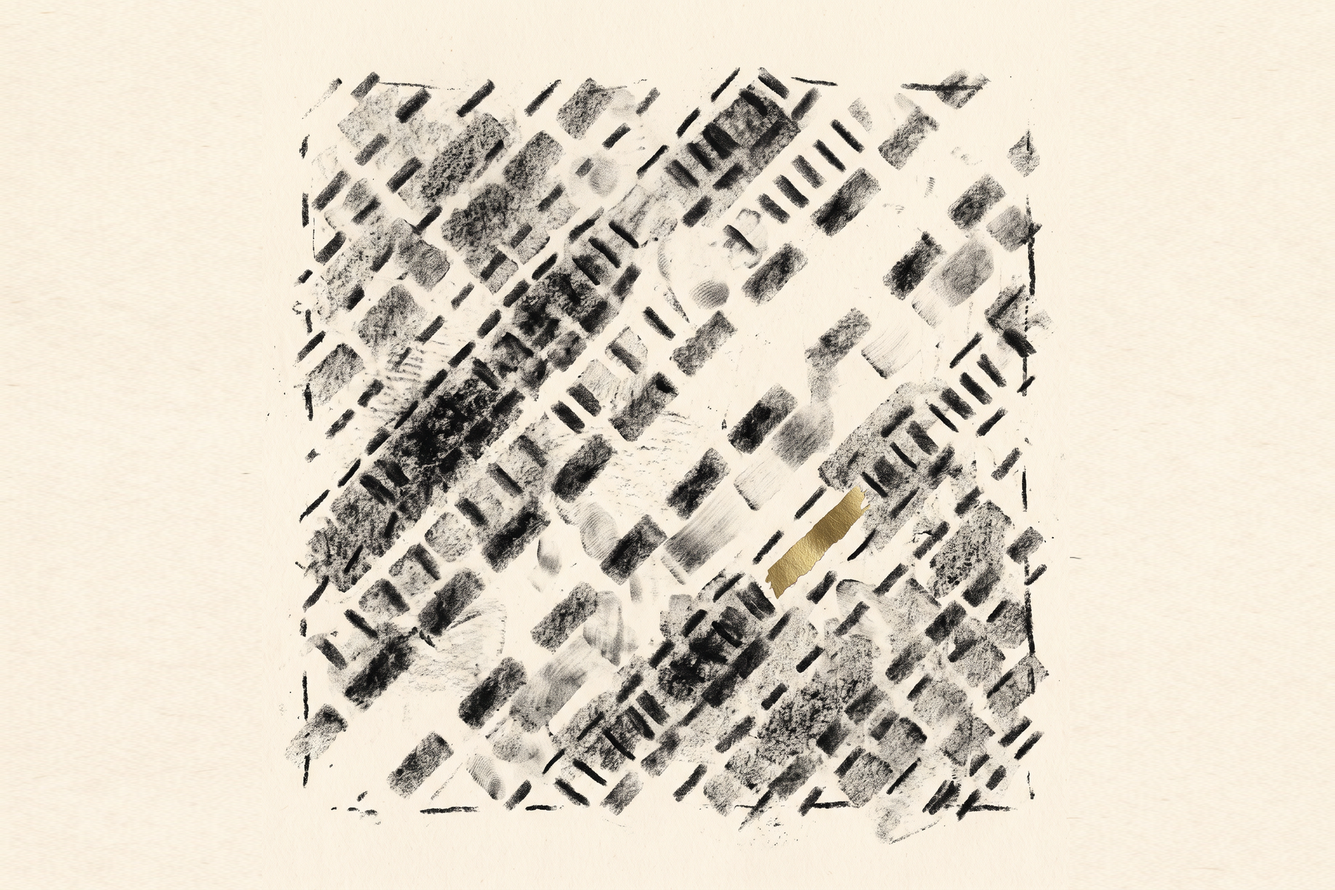
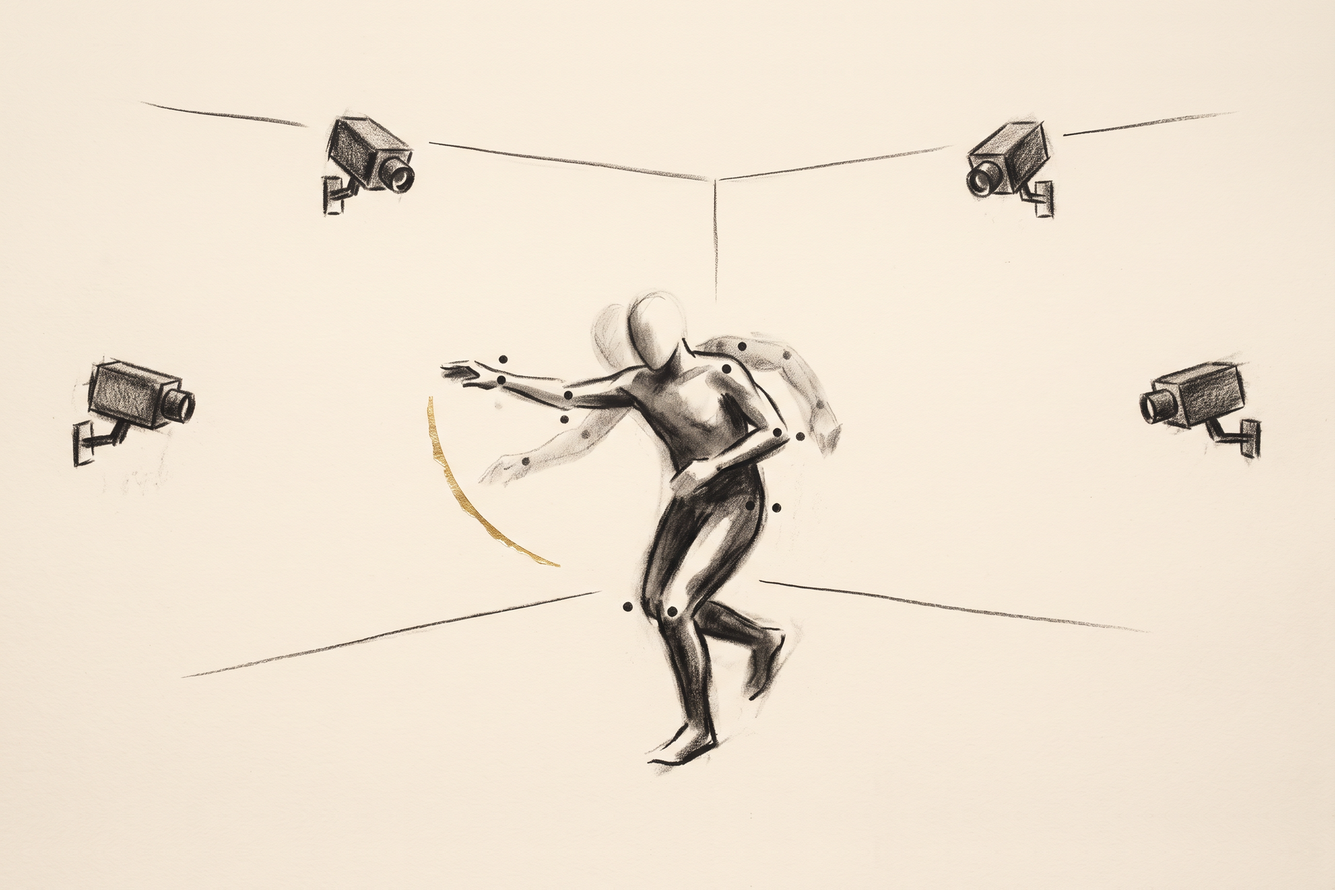
feat(people,teaching): session 6 edits, Nicole's headshot, revised theme 03 tile
People: grad students above lab manager, Nicole's photo, director CV link (placeholder),
interests line, current RAs, CV-based alumni list, collaborators. Teaching: PSY 371F rewritten
toward the ML course, Sensation & Perception added to the ASU archive. computation.png is the
2026-11-11 revised tile (provenance in Box Art-Direction/generated/).

Claude-Session: https://claude.ai/code/session_014KxBSAUFzVUFEkRcMTQfwo

diff --git a/assets/css/main.scss b/assets/css/main.scss
@@ -485,6 +485,21 @@ html[data-theme="dark"] .dc-hero__photo picture img {
   font-size: 0.95rem;
 }
 
+/* Lab Director: bold label on the research-interest line; CV link under the name. */
+.director-label {
+  font-weight: 600;
+}
+
+.person-cv {
+  margin-top: 0.35rem;
+  font-size: 0.9rem;
+  color: var(--global-theme-color);
+}
+
+.person-cv i {
+  margin-right: 0.2rem;
+}
+
 /* Research assistants: same small photo box, name only (not bolded). */
 .people-grid--ra .person-name {
   font-weight: 400;

diff --git a/_pages/people.md b/_pages/people.md
@@ -11,31 +11,28 @@ nav_order: 2
 
 ## Lab Director
 
-**{{ p.director.name }}**, {{ p.director.role }}
-
-{{ p.director.bio }}
-
----
-
-{% if p.lab_manager and p.lab_manager.size > 0 %}
-## Lab Manager
-
 <div class="people-grid people-grid--grad">
-{% for s in p.lab_manager %}
   <div class="person-card">
-    {% if s.image %}
-      <img class="person-photo" src="{{ s.image | prepend: 'assets/img/people/' | relative_url }}" alt="{{ s.name }}" />
+    {% if p.director.people_image %}
+      <img class="person-photo" src="{{ p.director.people_image | prepend: 'assets/img/people/' | relative_url }}" alt="{{ p.director.name }}" />
     {% else %}
       <div class="person-photo person-photo--placeholder" aria-hidden="true"><i class="fa-solid fa-user"></i></div>
     {% endif %}
     <div class="person-info">
-      <span class="person-name">{{ s.name }}</span>
-      {% if s.role %}<span class="person-role">{{ s.role }}</span>{% endif %}
+      <span class="person-name">{{ p.director.name }}</span>
+      <span class="person-role">{{ p.director.role }}</span>
+      <a class="person-cv" href="{% if p.director.cv %}{{ p.director.cv | prepend: 'assets/pdf/' | relative_url }}{% else %}#{% endif %}"{% if p.director.cv %} target="_blank" rel="noopener"{% endif %}><i class="fa-regular fa-file-lines" aria-hidden="true"></i> Curriculum vitae</a>
     </div>
   </div>
-{% endfor %}
 </div>
+
+{{ p.director.bio }}
+
+{% if p.director.interests %}
+<p class="director-interests"><span class="director-label">Research interests.</span> {{ p.director.interests | join: "; " }}.</p>
 {% endif %}
+
+---
 
 ## Graduate Students
 
@@ -59,13 +56,33 @@ nav_order: 2
 _Currently recruiting — see [Get Involved](/get-involved/)._
 {% endif %}
 
+{% if p.lab_manager and p.lab_manager.size > 0 %}
+## Lab Manager
+
+<div class="people-grid people-grid--grad">
+{% for s in p.lab_manager %}
+  <div class="person-card">
+    {% if s.image %}
+      <img class="person-photo" src="{{ s.image | prepend: 'assets/img/people/' | relative_url }}" alt="{{ s.name }}" />
+    {% else %}
+      <div class="person-photo person-photo--placeholder" aria-hidden="true"><i class="fa-solid fa-user"></i></div>
+    {% endif %}
+    <div class="person-info">
+      <span class="person-name">{{ s.name }}</span>
+      {% if s.role %}<span class="person-role">{{ s.role }}</span>{% endif %}
+    </div>
+  </div>
+{% endfor %}
+</div>
+{% endif %}
+
 ## Research Assistants
 <div class="people-grid people-grid--ra">
 {% for s in p.research_assistants %}
   <div class="person-card">
     {% if s.image %}
       <img class="person-photo" src="{{ s.image | prepend: 'assets/img/people/' | relative_url }}" alt="{{ s.name }}" />
-    {% else %}
+    {% elsif s.senior %}
       <div class="person-photo person-photo--placeholder" aria-hidden="true"><i class="fa-solid fa-user"></i></div>
     {% endif %}
     <div class="person-info">
@@ -77,9 +94,9 @@ _Currently recruiting — see [Get Involved](/get-involved/)._
 
 ---
 
-## Alumni (Graduate, Committee Chair)
+## Alumni (Master's, Committee Chair)
 {% for a in p.grad_alumni %}
-- **{{ a.name }}**{% if a.placement %} — {{ a.placement }}{% endif %}
+- **{{ a.name }}**{% if a.note %} ({{ a.note }}){% endif %}{% if a.placement %}, {{ a.placement }}{% endif %}{% if a.year %} ({{ a.year }}){% endif %}
 {% endfor %}
 
 ---

diff --git a/_pages/teaching.md b/_pages/teaching.md
@@ -7,26 +7,20 @@ nav: true
 nav_order: 4
 ---
 
-## Foundations of Psychological Data Science (UT Austin)
-
-A two-course undergraduate sequence in the Department of Psychology that teaches data science
-for psychological and brain science in Python, using Jupyter notebooks and real datasets.
-
 ### PSY 371E · Foundations of Psychological Data Science I
 Students learn to load, clean, reshape, and visualize data with pandas and
 seaborn, then move from description to modeling: distributions, correlation, simple and multiple
-regression, and confounding (including Simpson's paradox). Each module pairs a guided tutorial
+regression, and confounding. Each module pairs a guided tutorial
 with mini-projects on real data, from film representation to concussion and reaction time. The
 course ends with an individual project: a pitched and peer-reviewed proposal, a final analysis
 notebook, and a presentation.
 
 ### PSY 371F · Foundations of Psychological Data Science II
-A flipped, hands-on course that builds on FDS I toward the tools of working data
-science: Python fundamentals (functions, loops, objects), NumPy, pandas, and multi-panel figures;
-Git and GitHub for version control and collaboration; simulation as a way to reason about
-statistics; regression, introductory machine learning, and time-series analysis. Students also
-practice using AI coding tools deliberately, with attention to verification and attribution, and
-finish with a final project kept on GitHub and presented live to a mixed audience.
+Builds on the first course toward machine learning for the behavioral sciences. Students begin with
+supervised learning and cross-validation, then work through the bias-variance trade-off, tree-based
+models and how to interpret them, unsupervised methods such as clustering and principal components
+analysis, and neural networks for images and text. The math (probability, functions, vectors) comes
+in as needed, but the course is built around projects on real behavioral data. Students finish with a machine learning project of their own.
 
 ---
 
@@ -40,5 +34,7 @@ finish with a final project kept on GitHub and presented live to a mixed audienc
   neuroscience, and psychology.
 - **Language & Social Interaction.** Language in its natural environment: dialogue, convergence,
   perspective-taking, and deception.
+- **Sensation & Perception.** How the senses turn light, sound, and touch into experience:
+  vision, audition, and the other senses, from psychophysics to the brain.
 
 </div>
